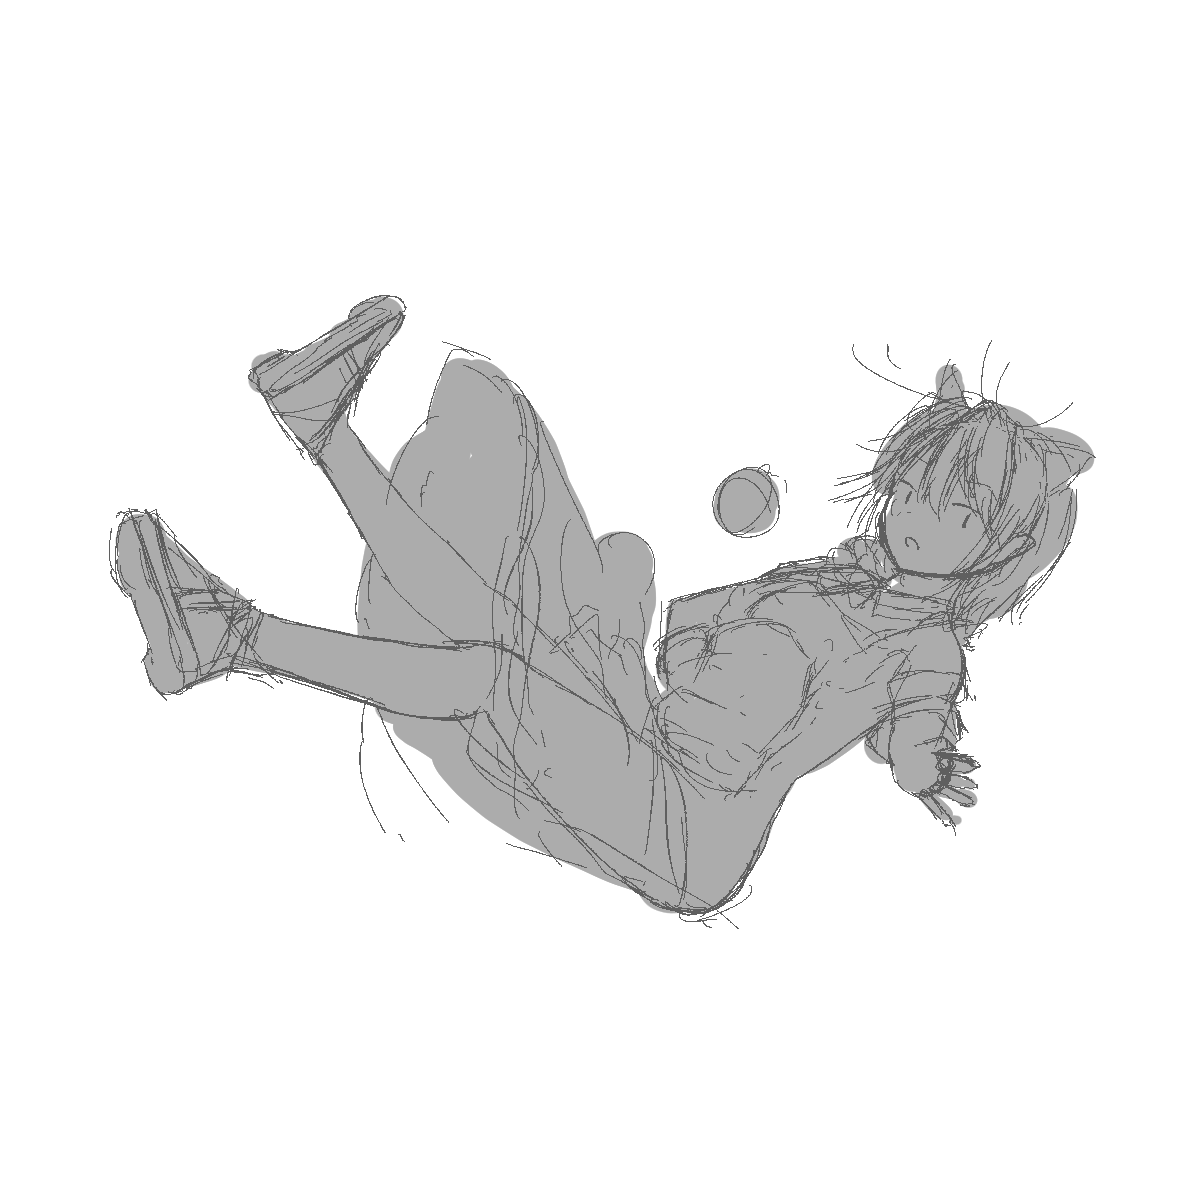
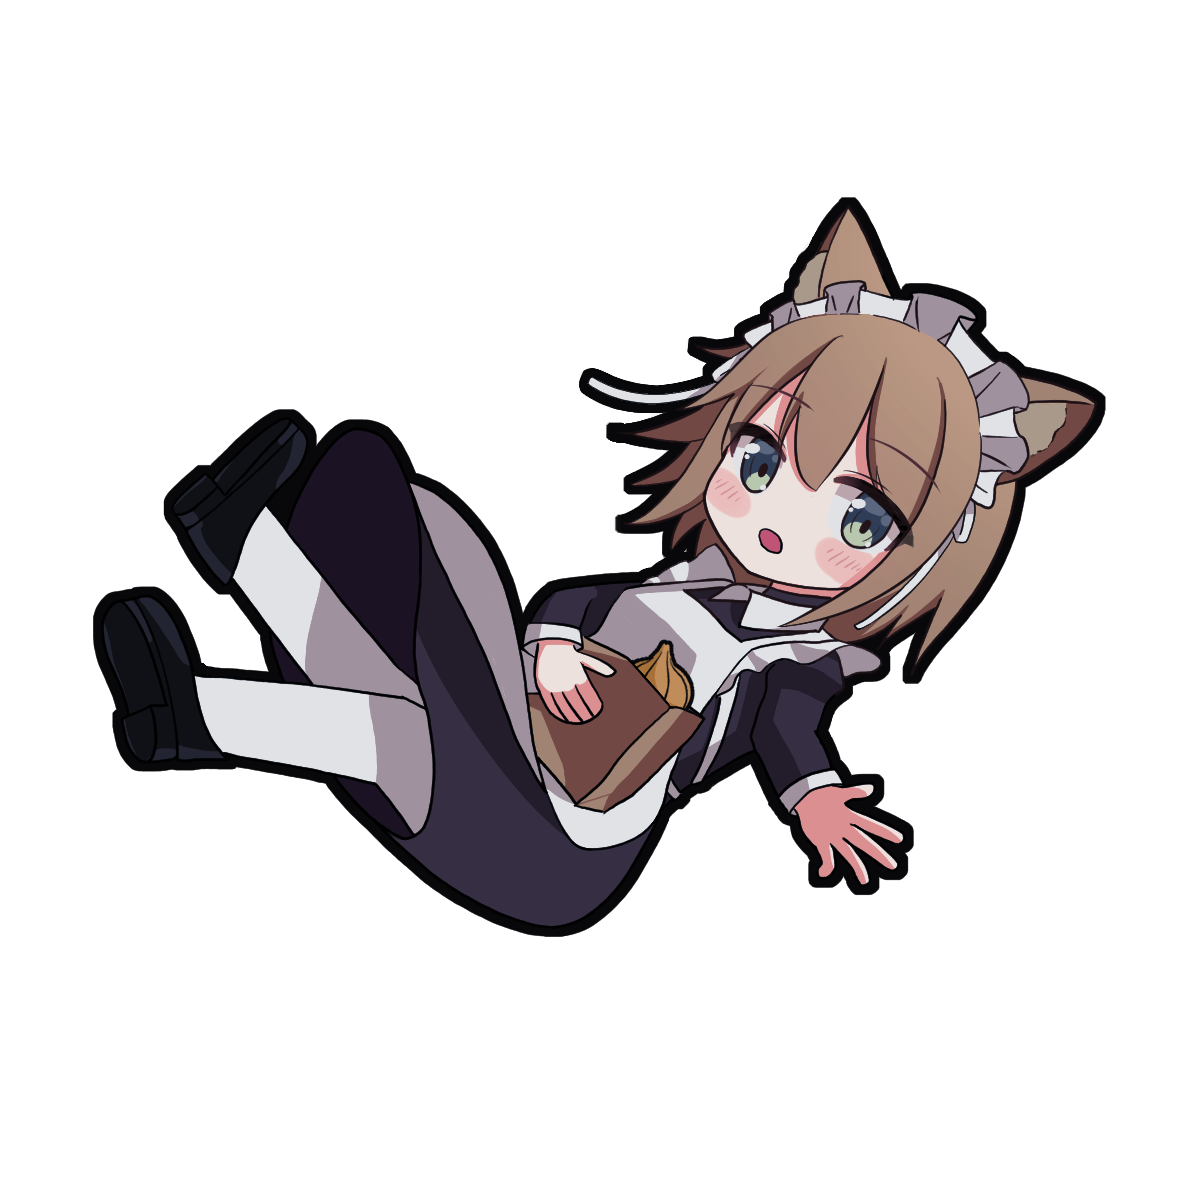
replace chara and negi

diff --git a/src/components/about/AboutContent.vue b/src/components/about/AboutContent.vue
@@ -148,12 +148,13 @@ $shadows-big:    multiple-box-shadow(100)
 
   .negi
     position: absolute
-    width: 50%
+    width: 70%
+    top: 25%
+    left: 25%
     height: auto
-    top: 36%
     z-index: 1
     user-select: none
-    opacity: 0
+    opacity: 1
 
   .section
     width: 100%

diff --git a/src/components/about/Drop.vue b/src/components/about/Drop.vue
@@ -4,7 +4,7 @@
 </template>
 
 <script>
-import fall from "@/assets/fall/fall2.png";
+import fall from "@/assets/fall/fall.png";
 
 export default {
   name: "Drop",
